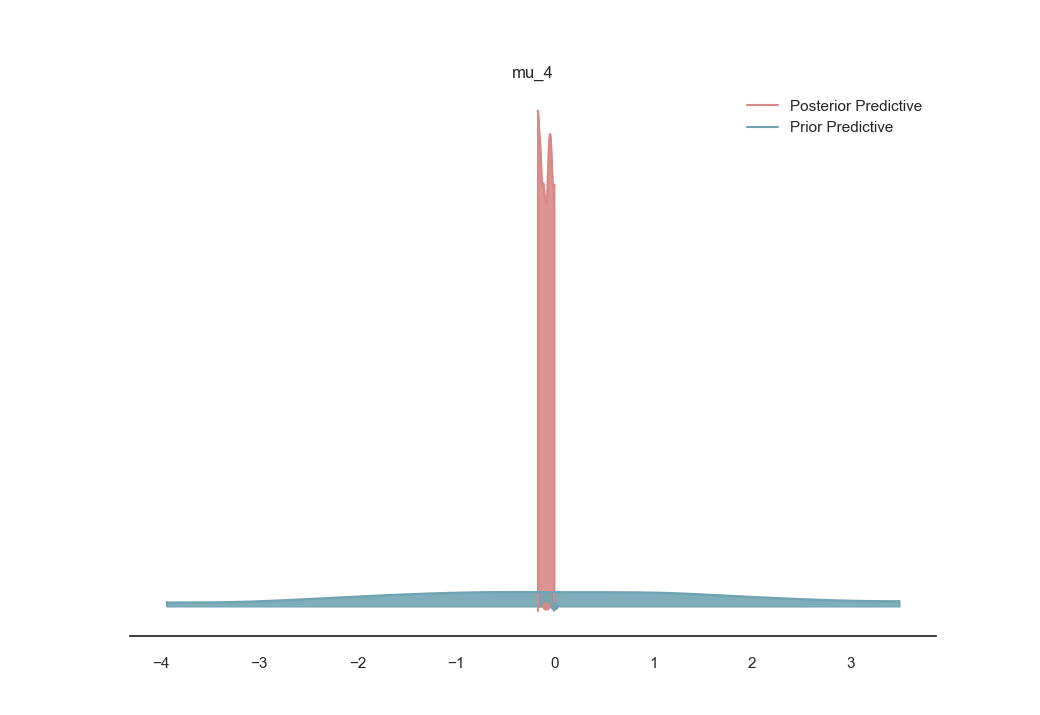
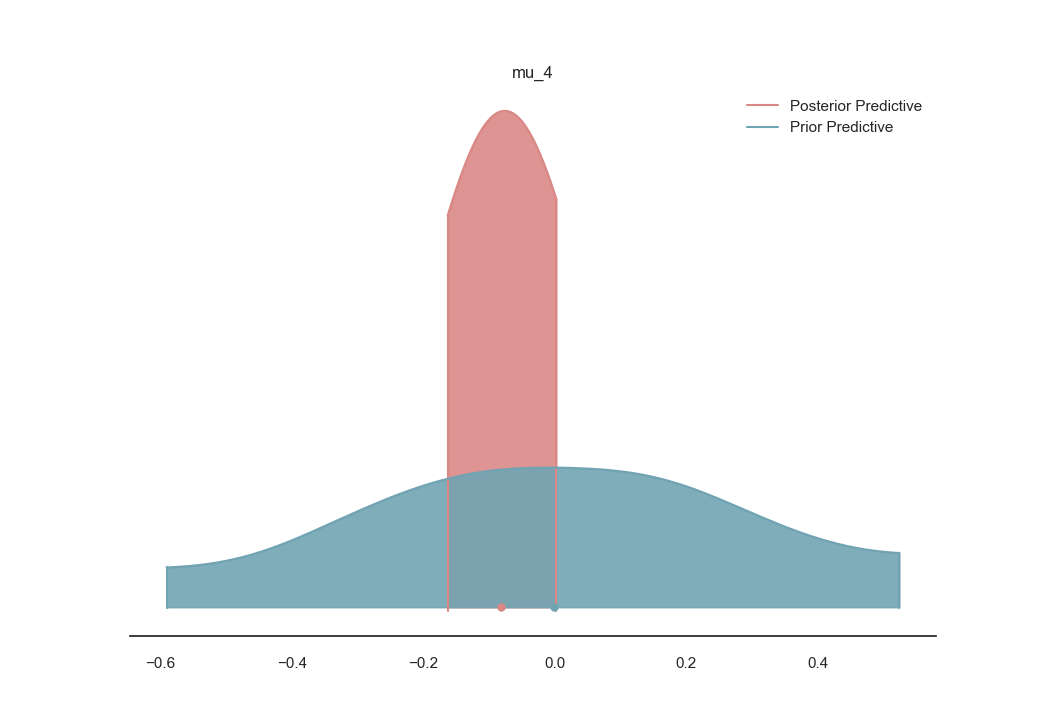
SalinasA test run

diff --git a/hsi_full.py b/hsi_full.py
@@ -389,10 +389,10 @@ def run_hsi_full(dataset, geo_model_init, geo_model_final):
     geo_model_test.interpolation_options.sigmoid_slope = slope_gempy
     test_list=[]
     if dataset.name=="SalinasA":
-        test_list.append({"update":"interface_data","id":torch.tensor([1]), "direction":"Z", "prior_distribution":"normal","normal":{"mean":torch.tensor(sp_coords_copy_test[1,2],dtype=dtype, device=device), "std":torch.tensor(2.0,dtype=dtype, device=device)}})
-        test_list.append({"update":"interface_data","id":torch.tensor([4]), "direction":"Z", "prior_distribution":"normal","normal":{"mean":torch.tensor(sp_coords_copy_test[4,2],dtype=dtype, device=device), "std":torch.tensor(2.0,dtype=dtype, device=device)}})
-        test_list.append({"update":"interface_data","id":torch.tensor([7]), "direction":"Z", "prior_distribution":"normal","normal":{"mean":torch.tensor(sp_coords_copy_test[7,2],dtype=dtype, device=device), "std":torch.tensor(2.0,dtype=dtype, device=device)}})
-        test_list.append({"update":"interface_data","id":torch.tensor([12]), "direction":"Z", "prior_distribution":"normal","normal":{"mean":torch.tensor(sp_coords_copy_test[12,2],dtype=dtype, device=device), "std":torch.tensor(2.0,dtype=dtype, device=device)}})
+        test_list.append({"update":"interface_data","id":torch.tensor([1]), "direction":"Z", "prior_distribution":"normal","normal":{"mean":torch.tensor(sp_coords_copy_test[1,2],dtype=dtype, device=device), "std":torch.tensor(0.3,dtype=dtype, device=device)}})
+        test_list.append({"update":"interface_data","id":torch.tensor([4]), "direction":"Z", "prior_distribution":"normal","normal":{"mean":torch.tensor(sp_coords_copy_test[4,2],dtype=dtype, device=device), "std":torch.tensor(0.3,dtype=dtype, device=device)}})
+        test_list.append({"update":"interface_data","id":torch.tensor([7]), "direction":"Z", "prior_distribution":"normal","normal":{"mean":torch.tensor(sp_coords_copy_test[7,2],dtype=dtype, device=device), "std":torch.tensor(0.3,dtype=dtype, device=device)}})
+        test_list.append({"update":"interface_data","id":torch.tensor([12]), "direction":"Z", "prior_distribution":"normal","normal":{"mean":torch.tensor(sp_coords_copy_test[12,2],dtype=dtype, device=device), "std":torch.tensor(0.3,dtype=dtype, device=device)}})
     elif dataset.name =="KSL":
         test_list.append({"update":"interface_data","id":torch.tensor([1]), "direction":"Z", "prior_distribution":"normal","normal":{"mean":torch.tensor(sp_coords_copy_test[1,2],dtype=dtype, device=device), "std":torch.tensor(0.02,dtype=dtype, device=device)}})
         test_list.append({"update":"interface_data","id":torch.tensor([4]), "direction":"Z", "prior_distribution":"normal","normal":{"mean":torch.tensor(sp_coords_copy_test[4,2],dtype=dtype, device=device), "std":torch.tensor(0.02,dtype=dtype, device=device)}})
@@ -508,6 +508,7 @@ def run_hsi_full(dataset, geo_model_init, geo_model_final):
         az.plot_density(
         data=[data.posterior, data.prior],
         shade=.9,
+        bw=0.1,
         var_names=['mu_' +str(i+1)],
         data_labels=["Posterior Predictive", "Prior Predictive"],
         colors=[default_red, default_blue],
